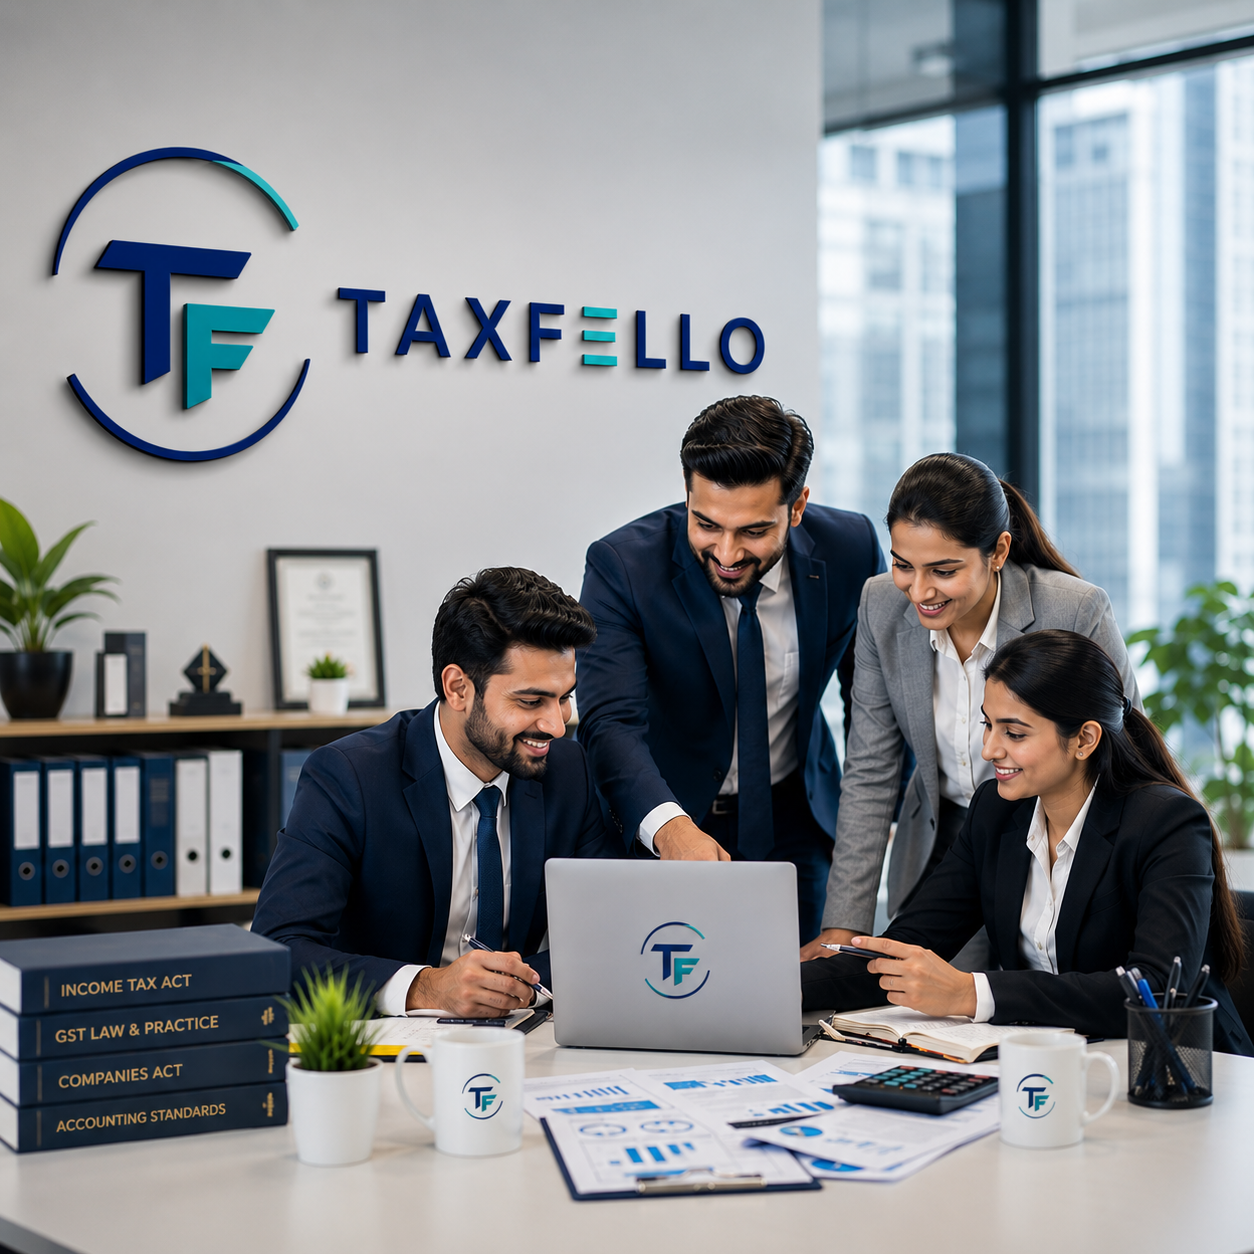
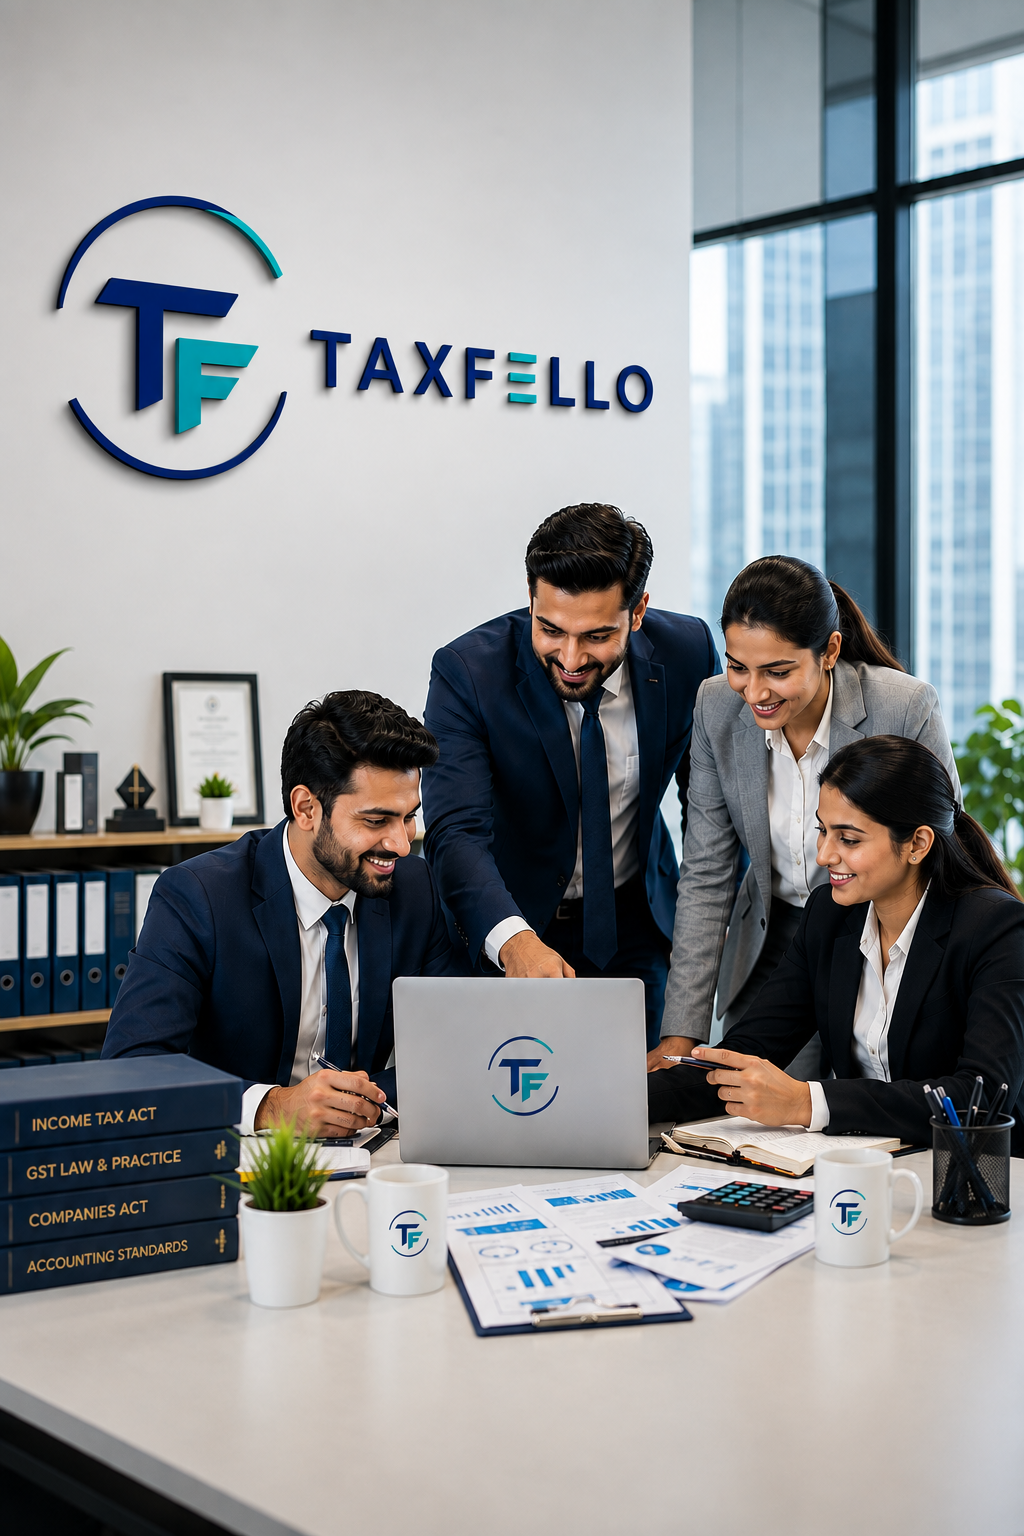
Initial commit

diff --git a/src/components/about/AboutTwo.jsx b/src/components/about/AboutTwo.jsx
@@ -134,7 +134,6 @@ function AboutTwo() {
                     font-size: 16px;
                 }
                 
-                /* Right Content / Image */
                 .about-pro-image-wrapper {
                     border-radius: 20px;
                     overflow: hidden;
@@ -142,10 +141,13 @@ function AboutTwo() {
                 }
                 .about-pro-image {
                     width: 100%;
-                    aspect-ratio: 1 / 1;
+                    aspect-ratio: 3 / 4;
                     object-fit: cover;
+                    object-position: top center;
                     display: block;
+                    max-height: 820px;
                 }
+
                 
                 /* Responsive */
                 @media (max-width: 991px) {
